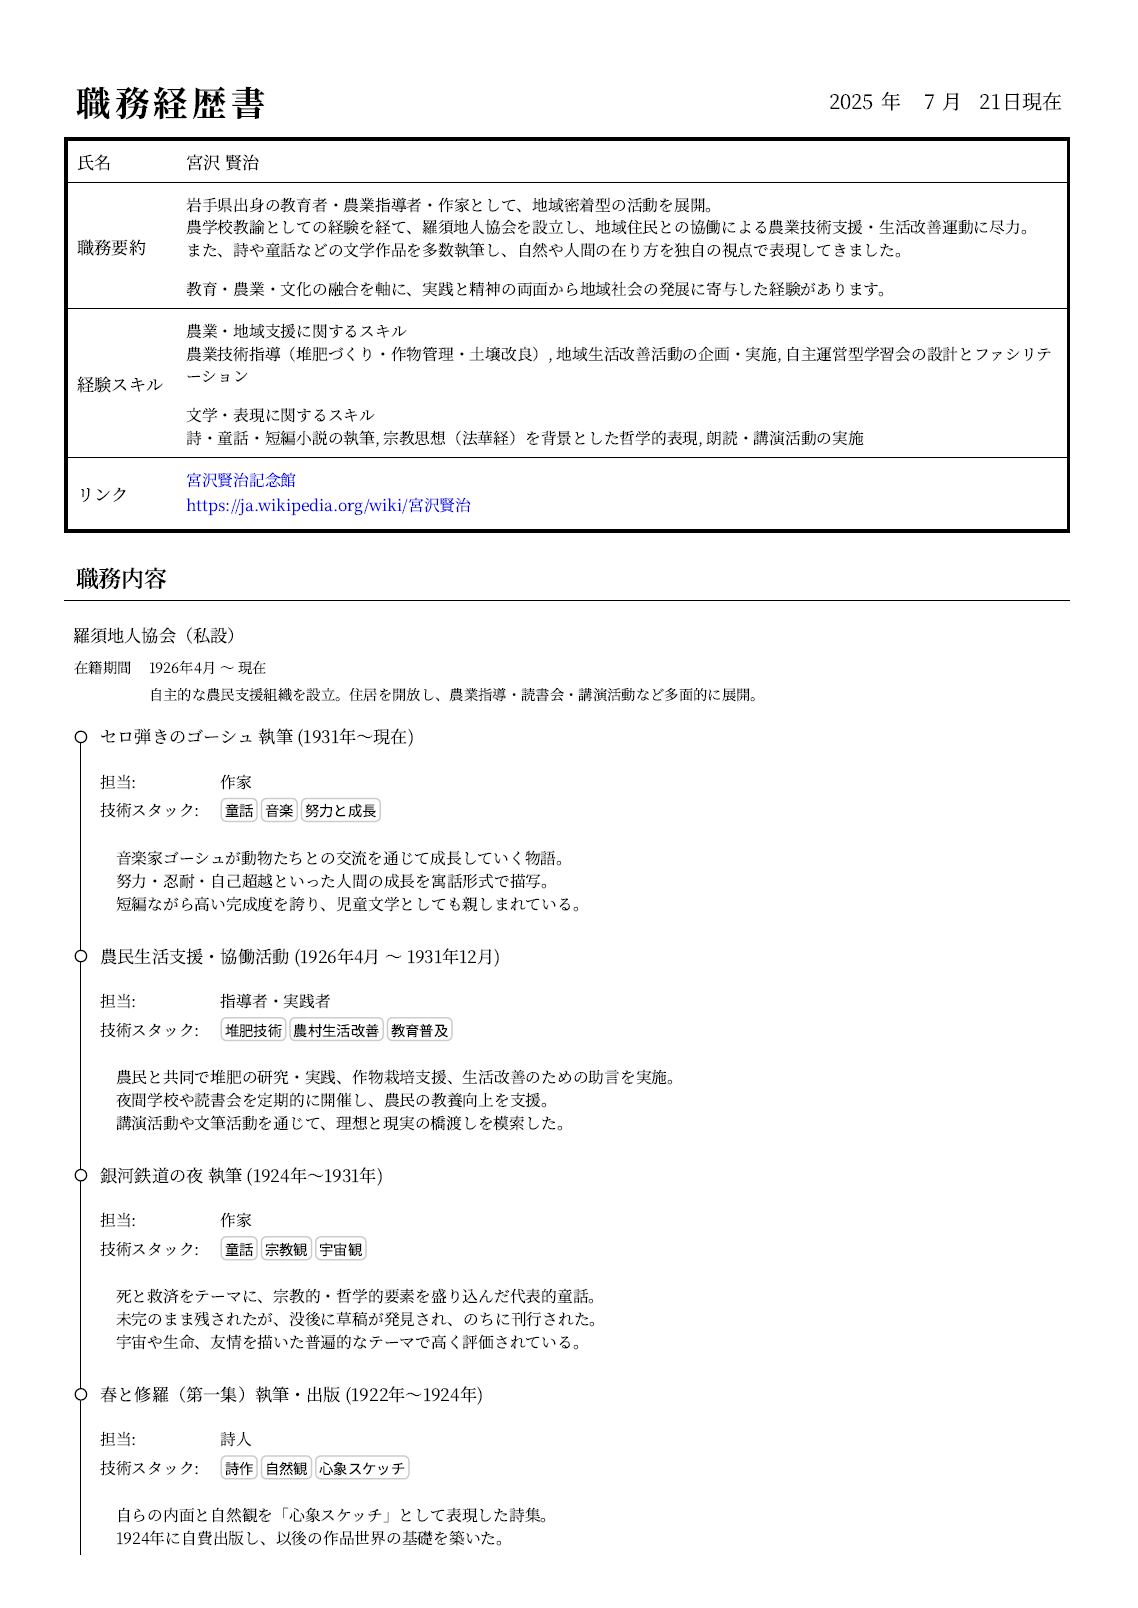
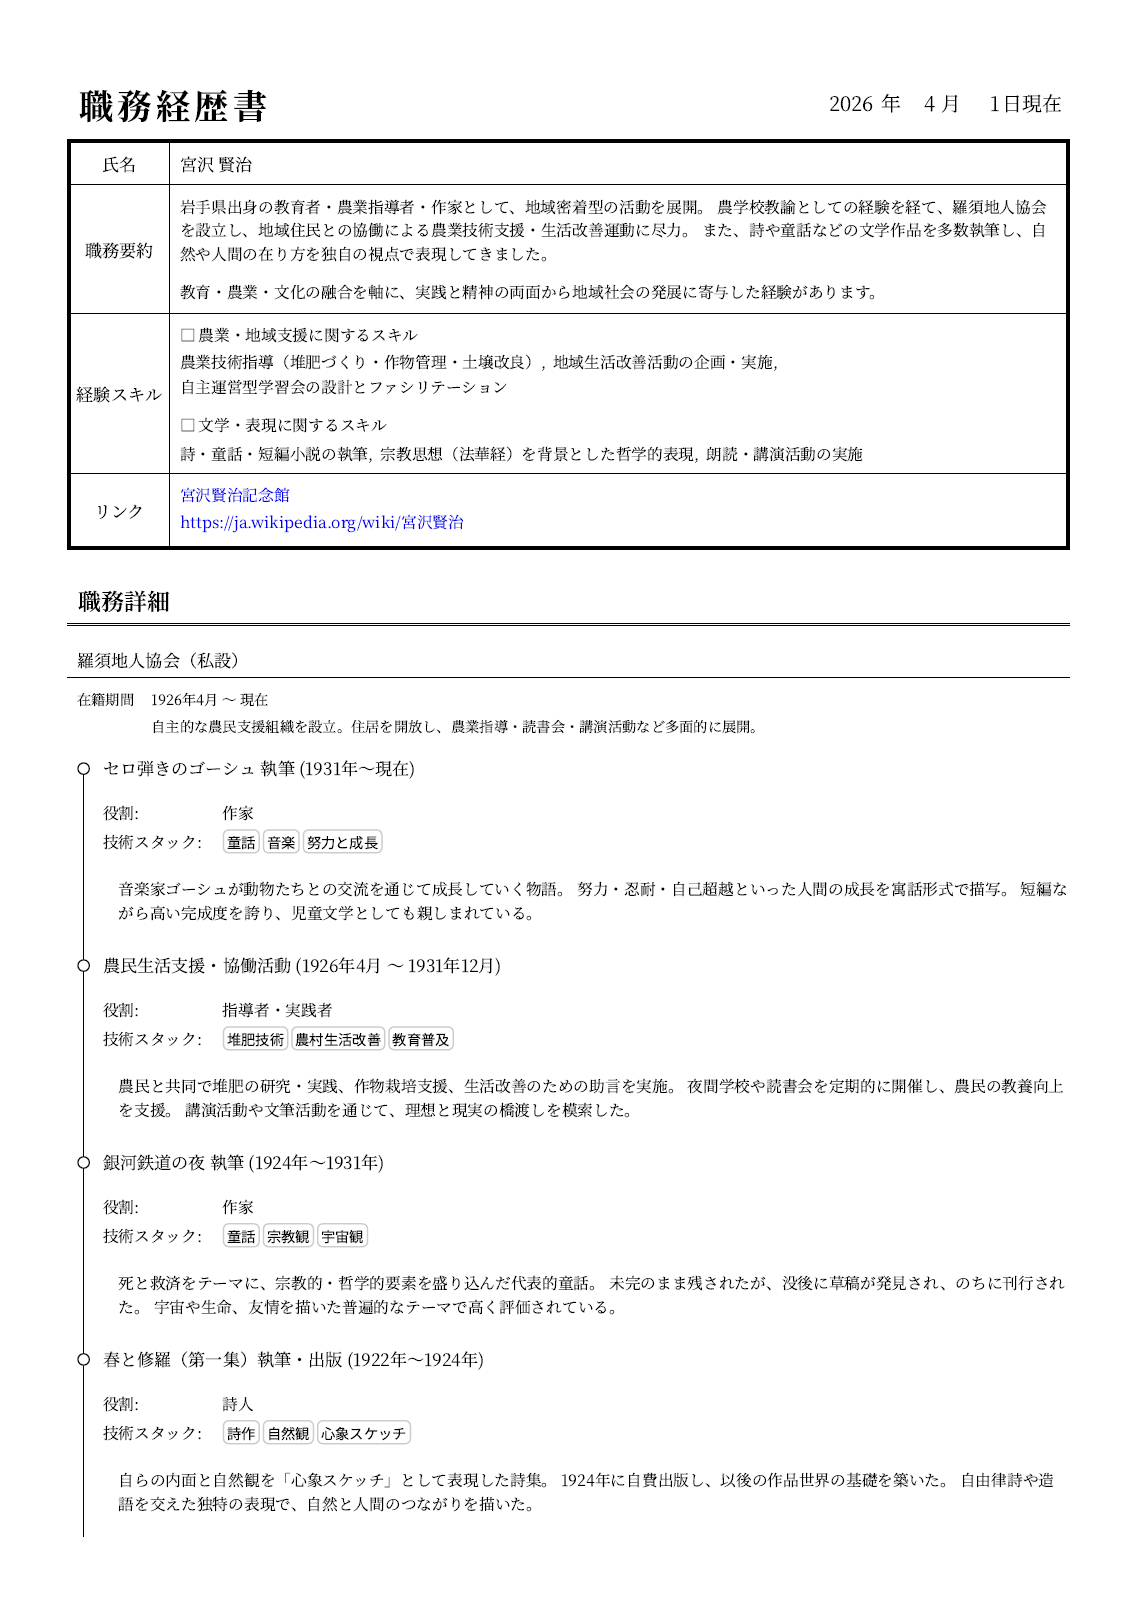
Improve career-history template

diff --git a/templates/career-history-template.html b/templates/career-history-template.html
@@ -25,8 +25,16 @@
             margin: 0;
         }
 
+        p, li {
+            line-height: 1.5em;
+        }
+
+        em {
+            color: #ccc;
+        }
+
         .profile {
-            margin: 22px auto 20px;
+            margin: 22px auto 24px;
             border-collapse: collapse;
         }
 
@@ -55,10 +63,14 @@
         }
 
         .profile tbody th {
-            width: 75px;
+            width: 67px;
             font-weight: normal;
-            text-align: left;
-            padding: 0 0 0 7px;
+            border-right: 1px #000 solid;
+            text-align: center;
+        }
+
+        .profile tbody td {
+            padding: 0 7px;
         }
 
         .profile tbody td:nth-of-type(1) {
@@ -186,11 +198,33 @@
             text-decoration: none;
         }
 
-        .profile .skills p span:nth-of-type(n + 2)::before {
+        .profile .caption::before {
+            content: "□";
+            margin-right: 2px;
+        }
+
+        .profile .skills p {
+          margin-bottom: 3px;
+        }
+
+        .profile .skills ul {
+            padding: 0;
+            margin: 0;
+        }
+
+        .profile .skills ul li {
+            display: inline-block;
+        }
+
+        .profile .skills ul li::after {
             content: ",";
             display: inline-block;
             position: relative;
             padding-right: 2px;
+        }
+
+        .profile .skills ul li:last-of-type::after {
+          content: none;
         }
 
         h2 {
@@ -199,21 +233,24 @@
 
             font-weight: 600;
             font-size: 16px;
-            border-bottom: 1px solid #000;
+            border-bottom: 3px double #000;
             padding-bottom: 4px;
             padding-left: 8px;
             width: 694px;
         }
 
         .career_histories .job {
-            margin-top: 2px;
+            margin-bottom: 16px;
         }
 
         .career_histories .job h3 {
-            margin: 14px 0 4px 14px;
-            width: 678px;
+            margin: 14px 0 4px 8px;
+            width: 695px;
             font-weight: normal;
             font-size: 12px;
+            border-bottom: 1px #000 solid;
+            padding-bottom: 4px;
+            padding-left: 7px;
         }
 
         .career_histories .job .summary table {
@@ -225,6 +262,10 @@
             font-weight: normal;
             width: 48px;
             text-align: left;
+        }
+
+        .career_histories .job .works {
+            margin-bottom: 8px;
         }
 
         .career_histories .job .works::after {
@@ -249,6 +290,10 @@
             left: 16px;
             top: 8px;
             position: relative;
+        }
+
+        .career_histories .job .works .log:last-of-type {
+            padding-bottom: 24px;
         }
 
         /* Use only when making it similar to git-log. */
@@ -309,12 +354,34 @@
         }
 
         .career_histories .job .works .log p {
-            margin: 0 0 0 16px;
+            margin: 12px 0 0 16px;
             font-size: 11px;
             word-break: break-all;
         }
 
-        .pr {
+        .career_histories .job .works .log td ul {
+          padding: 0;
+          list-style: none;
+          padding: 0;
+          margin: 0;
+        }
+
+        .career_histories .job .works .log ul li {
+          display: inline-block;
+        }
+
+        .career_histories .job .works .log ul li::after {
+          content: ",";
+          display: inline-block;
+          position: relative;
+          padding-right: 2px;
+        }
+
+        .career_histories .job .works .log ul li:last-of-type::after {
+            content: none;
+        }
+
+      .pr {
             border-collapse: collapse;
             margin: 14px;
         }
@@ -374,13 +441,7 @@
     <tr class="summary">
         <th>職務要約</th>
         <td>
-            <!--
-            {{#each career_summaries}}
-            -->
-            <p>{{{this}}}</p>
-            <!--
-            {{/each}}
-            -->
+            {{{career_summary}}}
         </td>
     </tr>
     <tr class="skills">
@@ -389,14 +450,16 @@
             <!--
             {{#each skills}}
             -->
-            <p>
-                {{caption}}<br>
+            <p class="caption">{{caption}}</p>
+            <ul>
                 <!--
                 {{#each items}}
-                --><span>{{this}}</span><!--
+                -->
+                <li>{{this}}</li>
+                <!--
                 {{/each}}
                 -->
-            </p>
+            </ul>
             <!--
             {{/each}}
             -->
@@ -424,7 +487,7 @@
         <th>リンク</th>
         <td>
             <!--
-            {{#if links_not_empty}}
+            {{#if has_links}}
             -->
             <ul>
                 <!--
@@ -458,7 +521,7 @@
 <!--
 {{#with career_histories}}
 -->
-<h2>職務内容</h2>
+<h2>職務詳細</h2>
 <div class="career_histories">
     <!--
     {{#each this}}
@@ -473,7 +536,7 @@
         -->
 
         <!--
-        {{#if term_or_summary}}
+        {{#if has_term_or_summary}}
         -->
         <section class="summary">
             <table>
@@ -494,7 +557,9 @@
                 -->
                 <tr>
                     <th></th>
-                    <td>{{summary}}</td>
+                    <td>
+                    {{{summary}}}
+                    </td>
                 </tr>
                 <!--
                 {{/if}}
@@ -507,7 +572,7 @@
         -->
 
         <!--
-        {{#if works_not_empty}}
+        {{#if has_works}}
         -->
         <section class="works">
             <!--
@@ -545,7 +610,7 @@
                     {{#if role}}
                     -->
                     <tr>
-                        <th>担当</th>
+                        <th>役割</th>
                         <td>{{role}}</td>
                     </tr>
                     <!--
@@ -553,7 +618,28 @@
                     -->
 
                     <!--
-                    {{#if stacks_not_empty}}
+                    {{#if has_responsibilities}}
+                    -->
+                    <tr>
+                        <th>担当</th>
+                        <td>
+                            <ul>
+                                <!--
+                                {{#each responsibilities}}
+                                -->
+                                <li>{{this}}</li>
+                                <!--
+                                {{/each}}
+                                -->
+                            </ul>
+                        </td>
+                    </tr>
+                    <!--
+                    {{/if}}
+                    -->
+
+                    <!--
+                    {{#if has_stacks}}
                     -->
                     <tr>
                         <th>技術スタック</th>
@@ -577,9 +663,7 @@
                 <!--
                 {{#if desc}}
                 -->
-                <p>
-                    {{{desc}}}
-                </p>
+                {{{desc}}}
                 <!--
                 {{/if}}
                 -->
@@ -708,11 +792,7 @@
     <tbody>
     <tr>
         <td>
-            <!--
-            {{#each descs}}
-            --><p>{{{this}}}</p><!--
-            {{/each}}
-            -->
+            {{{desc}}}
 
             <!--
             {{!--

diff --git a/generateCareerHistory.js b/generateCareerHistory.js
@@ -4,6 +4,7 @@ import fs from "fs";
 import path from "path";
 import Handlebars from "handlebars"
 import puppeteer from "puppeteer";
+import {Marked} from "marked";
 
 export default function generateCareerHistory(config) {
     const today = new Date(config.issue_date);
@@ -15,16 +16,13 @@ export default function generateCareerHistory(config) {
             .replace(/\r/, `\n`);
 
         const tomlParams = toml.parse(tomlPath);
+        const marked = new Marked();
 
         const handlebarsParams = {
             profile: {
                 ...tomlParams.profile,
-                career_summaries: tomlParams.profile?.career_summary
-                    ?.trim()
-                    ?.replace(/\r\n|\r/g, "\n")
-                    ?.split(/\n\n/g)
-                    ?.map(s => s.replace(/\n/g, "<br>")),
-                links_not_empty: tomlParams.profile?.links?.length,
+                career_summary: marked.parse(tomlParams.profile?.career_summary),
+                has_links: tomlParams.profile?.links?.length,
                 links: tomlParams.profile?.links?.map(link => ({
                     url: link.url,
                     text: link.text ?? link.url
@@ -33,28 +31,22 @@ export default function generateCareerHistory(config) {
             career_histories: [
                 ...(tomlParams.career_histories?.map(history => ({
                     ...history,
-                    term_or_summary: (history.term || history.summary),
-                    works_not_empty: history.works?.length,
+                    has_term_or_summary: (history.term || history.summary),
+                    summary: history.summary ? marked.parse(history.summary) : undefined,
+                    has_works: history.works?.length,
                     works: (history.works?.map(work => ({
                         ...work,
                         name_or_term: (work.name || work.term),
                         role_or_stacks: (work.role || work.stacks?.length),
-                        stacks_not_empty: work.stacks?.length,
-                        desc: work.desc
-                            ?.trim()
-                            ?.replace(/\r\n|\r/g, "\n")
-                            ?.split(/\n/g)
-                            ?.join('<br>')
+                        has_responsibilities: (work.responsibilities?.length),
+                        has_stacks: work.stacks?.length,
+                        desc: marked.parse(work.desc)
                     })))
                 })) ?? [])
             ],
             promotion: {
                 ...tomlParams.promotion,
-                descs: tomlParams.promotion?.desc
-                    ?.trim()
-                    ?.replace(/\r\n|\r/g, "\n")
-                    ?.split(/\n\n/g)
-                    ?.map(s => s.replace(/\n/g, "<br>"))
+                desc: marked.parse(tomlParams.promotion?.desc)
             },
             y: today.getFullYear(),
             m: today.getMonth() + 1,
@@ -106,6 +98,8 @@ export default function generateCareerHistory(config) {
         await page.setContent(out);
         await page.pdf({
             ...config.pdf,
+            printBackground: true,
+            preferCSSPageSize: true,
             path: `${outPath}.pdf`
         });
 
